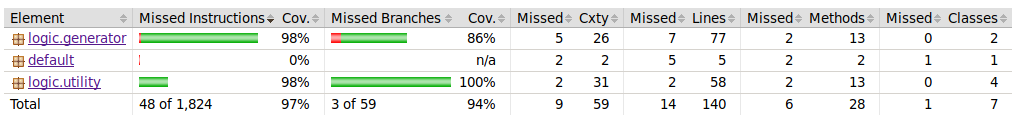
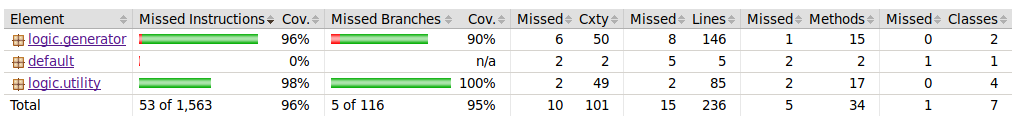
tests

diff --git a/application/src/test/java/logic/utility/ArrayStatsTest.java b/application/src/test/java/logic/utility/ArrayStatsTest.java
@@ -6,40 +6,70 @@ import org.junit.Before;
 import org.junit.Test;
 
 public class ArrayStatsTest {
-    private double[][] array;
+    private double[][] array2D;
+    private double[][][] array3D;
 
     @Before
     public void setUp() {
-        array = new double[3][3];
+        array2D = new double[3][3];
+        array3D = new double[3][3][3];
 
         for (int x = 0; x < 3; x++) {
             for (int y = 0; y < 3; y++) {
-                array[x][y] = x + y;
+                array2D[x][y] = x + y;
+
+                for (int z = 0; z < 3; z++) {
+                    array3D[x][y][z] = x + y + z;
+                }
             }
         }
     }
 
     @Test
     public void largestValue2DReturnsLargest() {
-        double largest = ArrayStats.largestValue2D(array);
+        double largest = ArrayStats.largestValue2D(array2D);
         assertEquals(4, largest, 0.0);
     }
 
     @Test
     public void smallestValue2DReturnsSmallest() {
-        double smallest = ArrayStats.smallestValue2D(array);
+        double smallest = ArrayStats.smallestValue2D(array2D);
         assertEquals(0, smallest, 0.0);
     }
 
     @Test
     public void pointsInRange2DWithPointsReturnsRightAmount() {
-        int points = ArrayStats.pointsInRange2D(array, 0, 1.1);
+        int points = ArrayStats.pointsInRange2D(array2D, 0, 1.1);
         assertEquals(3, points);
     }
 
     @Test
     public void pointsInRange2DWithoutPointsReturnsRightAmount() {
-        int points = ArrayStats.pointsInRange2D(array, 5.0, 10.0);
+        int points = ArrayStats.pointsInRange2D(array2D, 5.0, 10.0);
+        assertEquals(0, points);
+    }
+
+    @Test
+    public void largestValue3DReturnsLargest() {
+        double largest = ArrayStats.largestValue3D(array3D);
+        assertEquals(6, largest, 0.0);
+    }
+
+    @Test
+    public void smallestValue3DReturnsSmallest() {
+        double smallest = ArrayStats.smallestValue3D(array3D);
+        assertEquals(0, smallest, 0.0);
+    }
+
+    @Test
+    public void pointsInRange3DWithPointsReturnsRightAmount() {
+        int points = ArrayStats.pointsInRange3D(array3D, 0, 1.1);
+        assertEquals(4, points);
+    }
+
+    @Test
+    public void pointsInRange3DWithoutPointsReturnsRightAmount() {
+        int points = ArrayStats.pointsInRange3D(array3D, 7.0, 10.0);
         assertEquals(0, points);
     }
 }

diff --git a/application/src/test/java/logic/generator/PerlinGeneratorTest.java b/application/src/test/java/logic/generator/PerlinGeneratorTest.java
@@ -45,4 +45,35 @@ public class PerlinGeneratorTest {
         assertTrue(noise1 == noise2);
         assertTrue(noise2 == noise3);
     }
+
+    @Test
+    public void get3DNoiseReturnsValueBetween0And1() {
+        double noise1 = gen.get3DNoise(1.55, 0.25, 3.5);
+        double noise2 = gen.get3DNoise(3.15, 0.35, 7.0);
+
+        assertTrue(noise1 <= 1 && noise1 >= 0);
+        assertTrue(noise2 <= 1 && noise2 >= 0);
+    }
+
+    @Test
+    public void get3DNoiseReturnsDifferentValuesForDifferentPoints() {
+        double noise1 = gen.get3DNoise(1.55, 0.25, 3.5);
+        double noise2 = gen.get3DNoise(3.15, 0.35, 7.0);
+
+        assertFalse(noise1 == noise2);
+    }
+
+    @Test
+    public void get3DNoiseAlwaysReturnsTheSameValueForTheSamePoint() {
+        double x = 1.55;
+        double y = 0.25;
+        double z = 3.5;
+
+        double noise1 = gen.get3DNoise(x, y, z);
+        double noise2 = gen.get3DNoise(x, y, z);
+        double noise3 = gen.get3DNoise(x, y, z);
+
+        assertTrue(noise1 == noise2);
+        assertTrue(noise2 == noise3);
+    }
 }

diff --git a/application/src/test/java/logic/generator/WorleyGeneratorTest.java b/application/src/test/java/logic/generator/WorleyGeneratorTest.java
@@ -45,4 +45,35 @@ public class WorleyGeneratorTest {
         assertTrue(noise1 == noise2);
         assertTrue(noise2 == noise3);
     }
+
+    @Test
+    public void get3DNoiseReturnsValueBetween0And1() {
+        double noise1 = gen.get3DNoise(1.55, 0.25, 3.5);
+        double noise2 = gen.get3DNoise(3.15, 0.35, 7.0);
+
+        assertTrue(noise1 <= 1 && noise1 >= 0);
+        assertTrue(noise2 <= 1 && noise2 >= 0);
+    }
+
+    @Test
+    public void get3DNoiseReturnsDifferentValuesForDifferentPoints() {
+        double noise1 = gen.get3DNoise(1.55, 0.25, 3.5);
+        double noise2 = gen.get3DNoise(3.15, 0.35, 7.0);
+
+        assertFalse(noise1 == noise2);
+    }
+
+    @Test
+    public void get3DNoiseAlwaysReturnsTheSameValueForTheSamePoint() {
+        double x = 1.55;
+        double y = 0.25;
+        double z = 3.5;
+
+        double noise1 = gen.get3DNoise(x, y, z);
+        double noise2 = gen.get3DNoise(x, y, z);
+        double noise3 = gen.get3DNoise(x, y, z);
+
+        assertTrue(noise1 == noise2);
+        assertTrue(noise2 == noise3);
+    }
 }

diff --git a/application/src/test/java/logic/utility/FNVHashTest.java b/application/src/test/java/logic/utility/FNVHashTest.java
@@ -25,4 +25,17 @@ public class FNVHashTest {
         assertTrue(hash3 >= 0);
         assertTrue(hash4 >= 0);
     }
+
+    @Test
+    public void get3DHashReturnsNonNegativeValues() {
+        long hash1 = fnv.get3DHash(0, 0, 0);
+        long hash2 = fnv.get3DHash(1000, 1000, 500);
+        long hash3 = fnv.get3DHash(123456, 0, 30);
+        long hash4 = fnv.get3DHash(15, 256, 500);
+
+        assertTrue(hash1 >= 0);
+        assertTrue(hash2 >= 0);
+        assertTrue(hash3 >= 0);
+        assertTrue(hash4 >= 0);
+    }
 }
